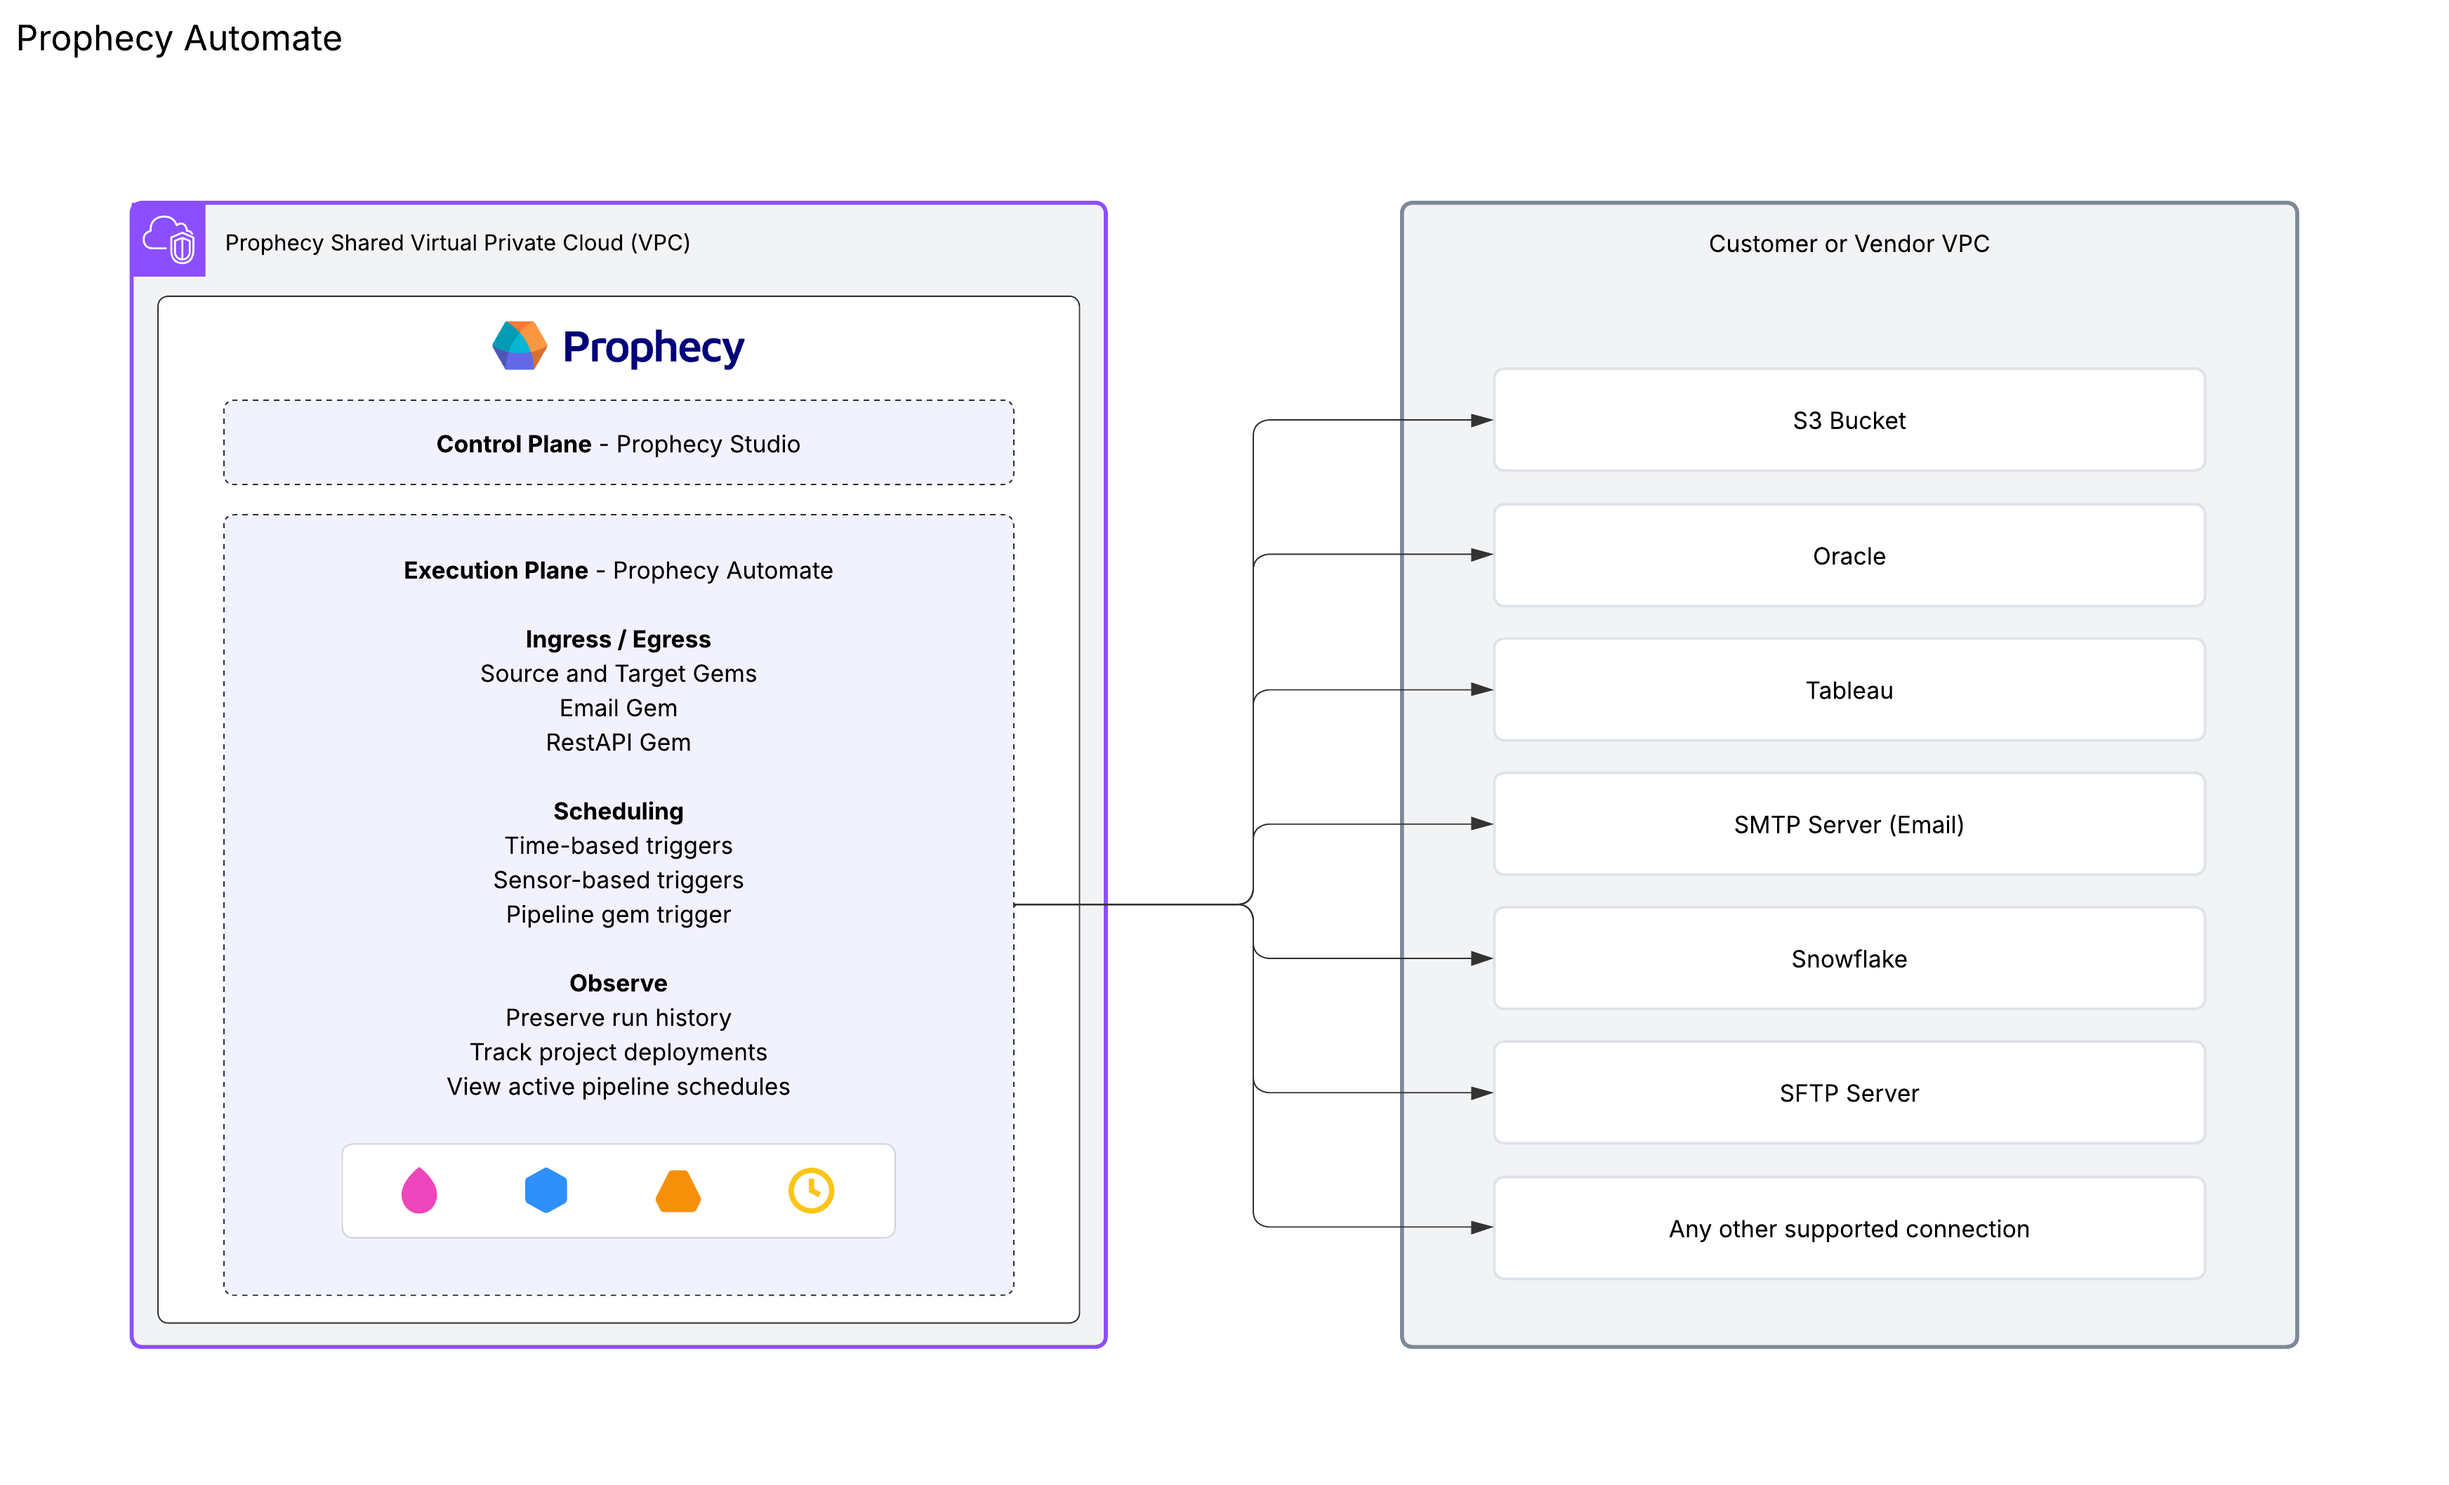
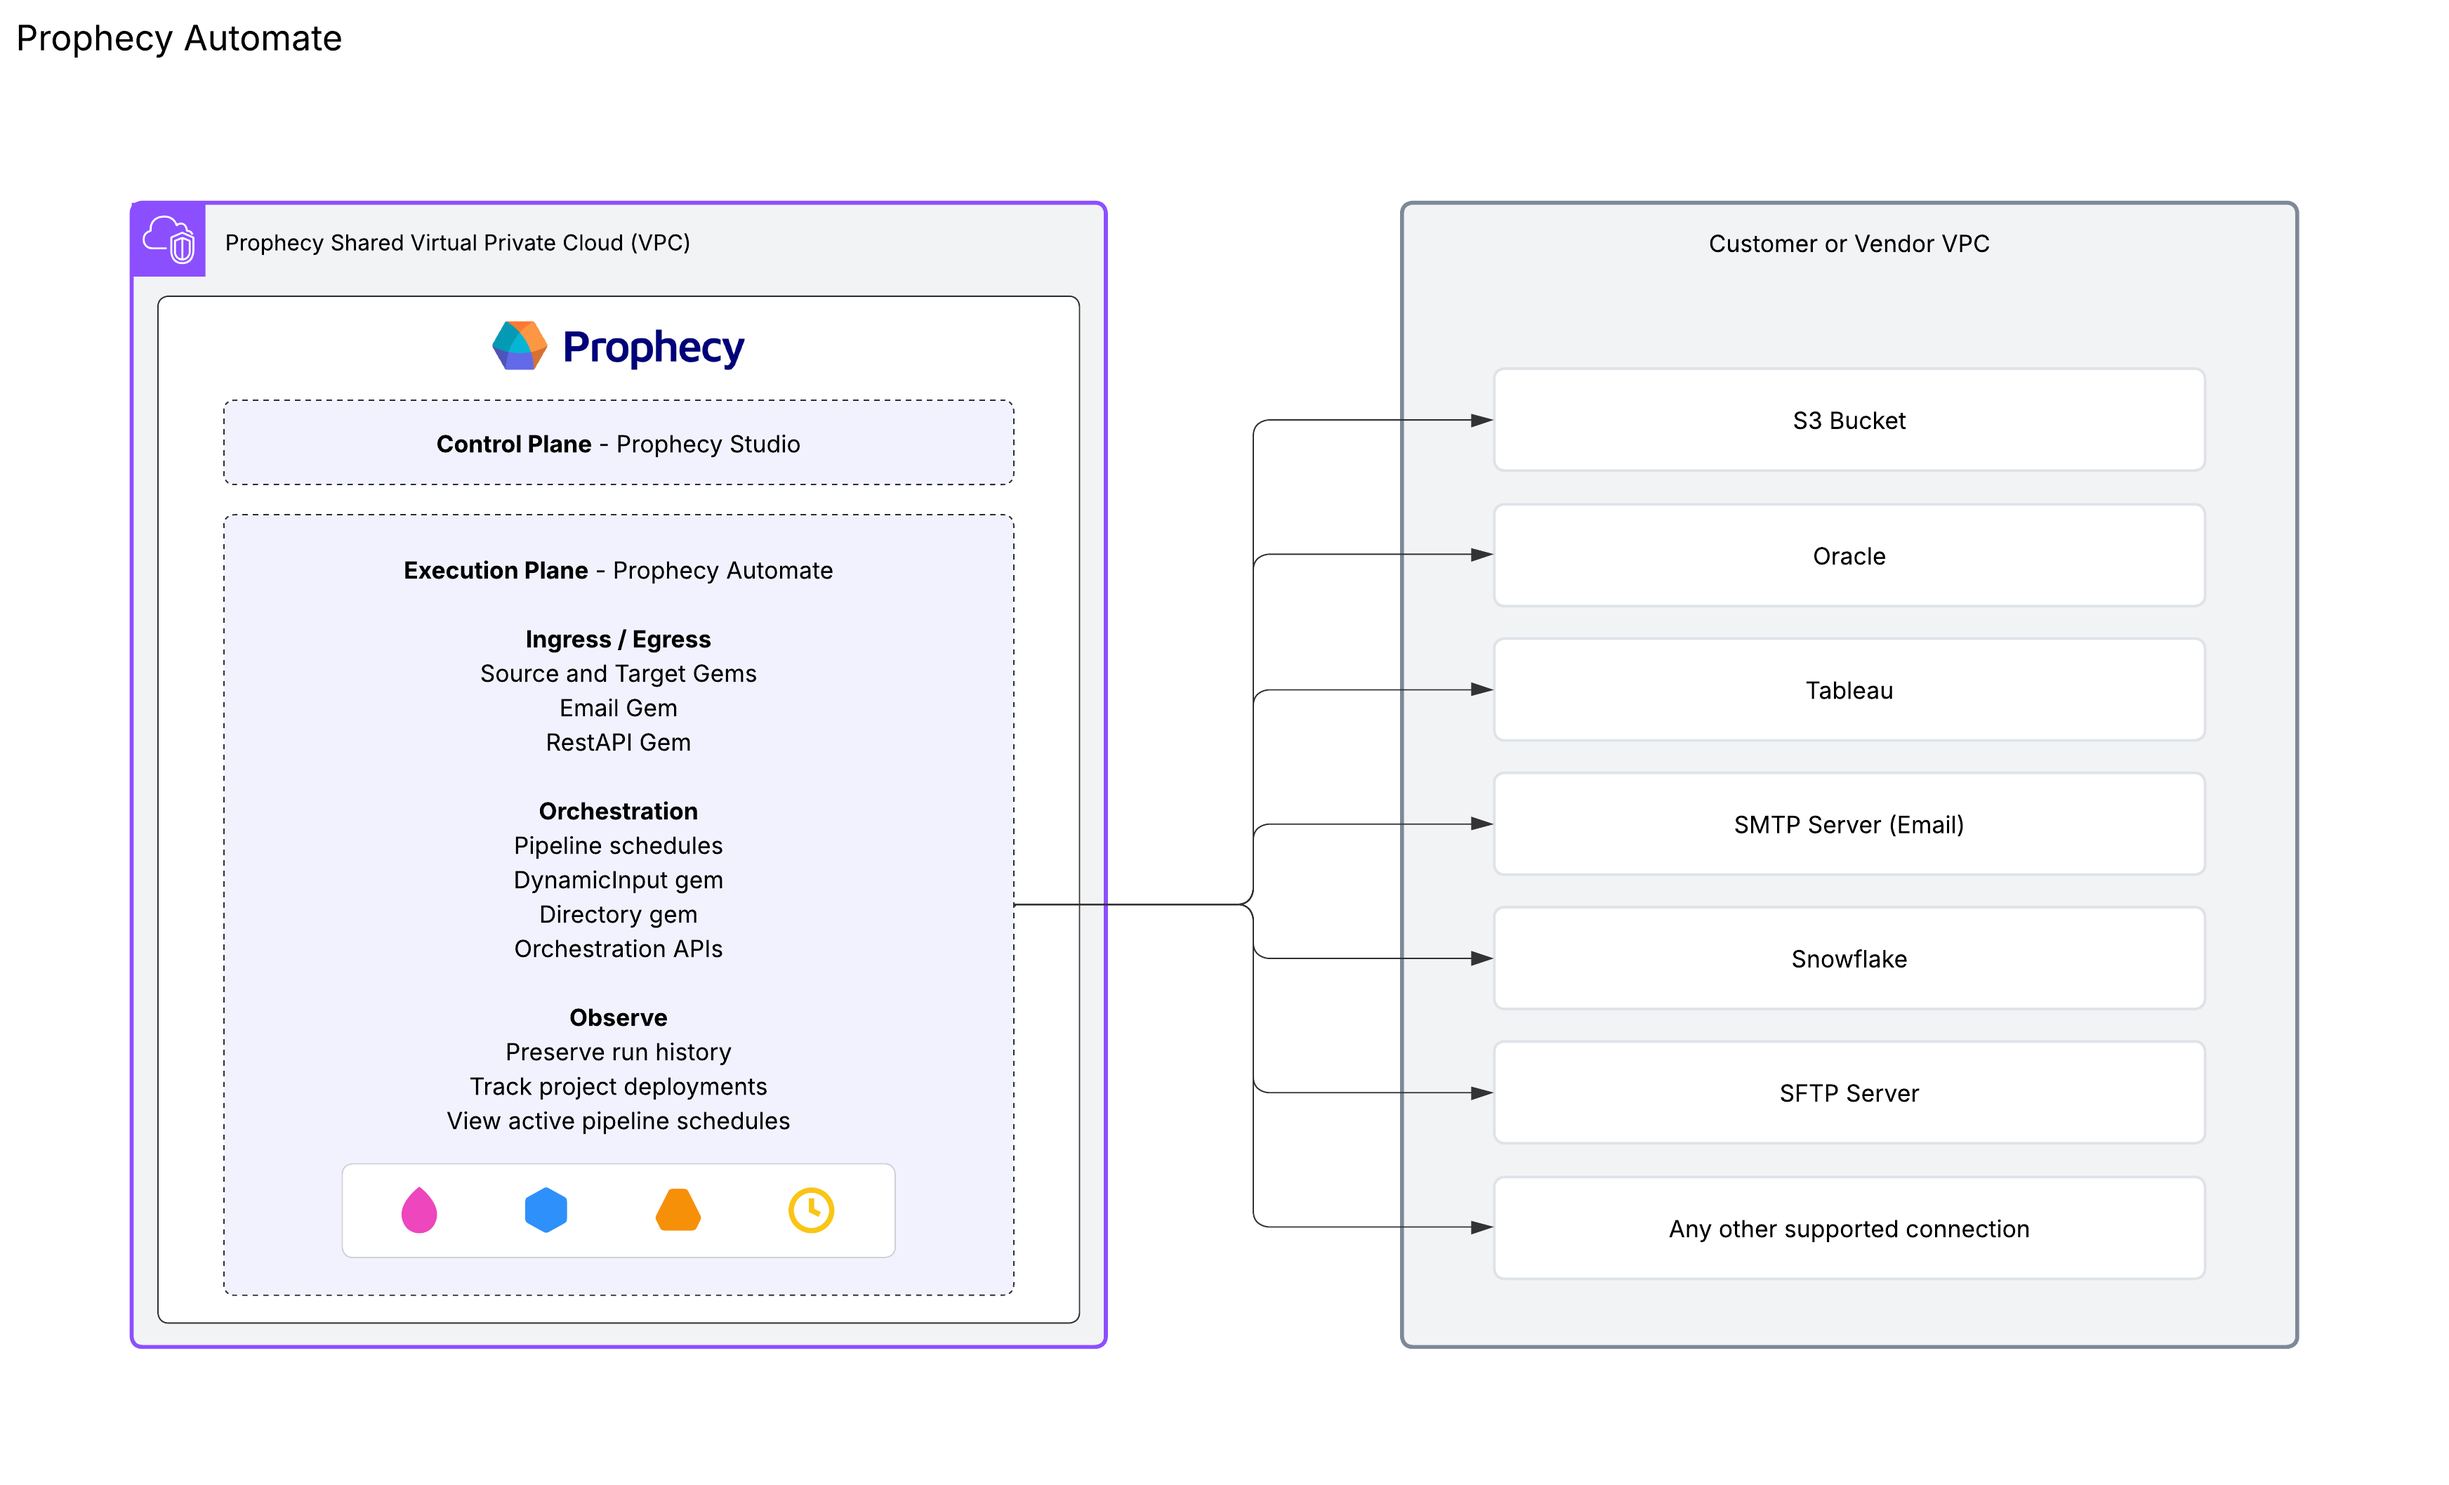
SR review

Changed region(s): [[0.1875, 0.5305, 0.3125, 0.8426], [0.3125, 0.7801, 0.3438, 0.8426], [0.1562, 0.7801, 0.1875, 0.8426]]

diff --git a/docs/administration/architecture.md b/docs/administration/architecture.md
@@ -84,11 +84,9 @@ Prophecy Automate is the native runtime available across all Prophecy editions. 
 
 - **Ingress/Egress**: Supports reading from and writing to databases (Snowflake, Oracle, etc.) and other data providers (SharePoint, Tableau, etc.).
 
-- **Transform**: Provides transformation capabilities beyond what's possible in dbt core. For example, you can using the DynamicInput gem, which runs on Prophecy Automate, to run SQL queries that update automatically based on your incoming data.
+- **Orchestration**: Coordinates pipeline logic beyond what's possible in dbt core. Orchestration includes pipeline scheduling with time-based and trigger-based execution, orchestration APIs for programmatic control, and dynamic operations like the DynamicInput gem (which runs SQL queries that update automatically based on incoming data) and the Directory gem (which lists files and folders in a specified location).
 
-- **Scheduling**: Lets you to automate pipeline runs with time-based and trigger-based execution options. Also enables use of APIs to trigger orchestration functionality.
-
-- **Observe**: Integrates monitoring and observability features that allow you to view pipeline run history, track project deployments, and view active pipeline schedules.
+- **Observe**: Integrates monitoring and observability features that allow you to view preserve pipeline run history, track project deployments, and view active pipeline schedules.
 
 <img
 src={require('./img/arch-prophecy-automate.png').default}
